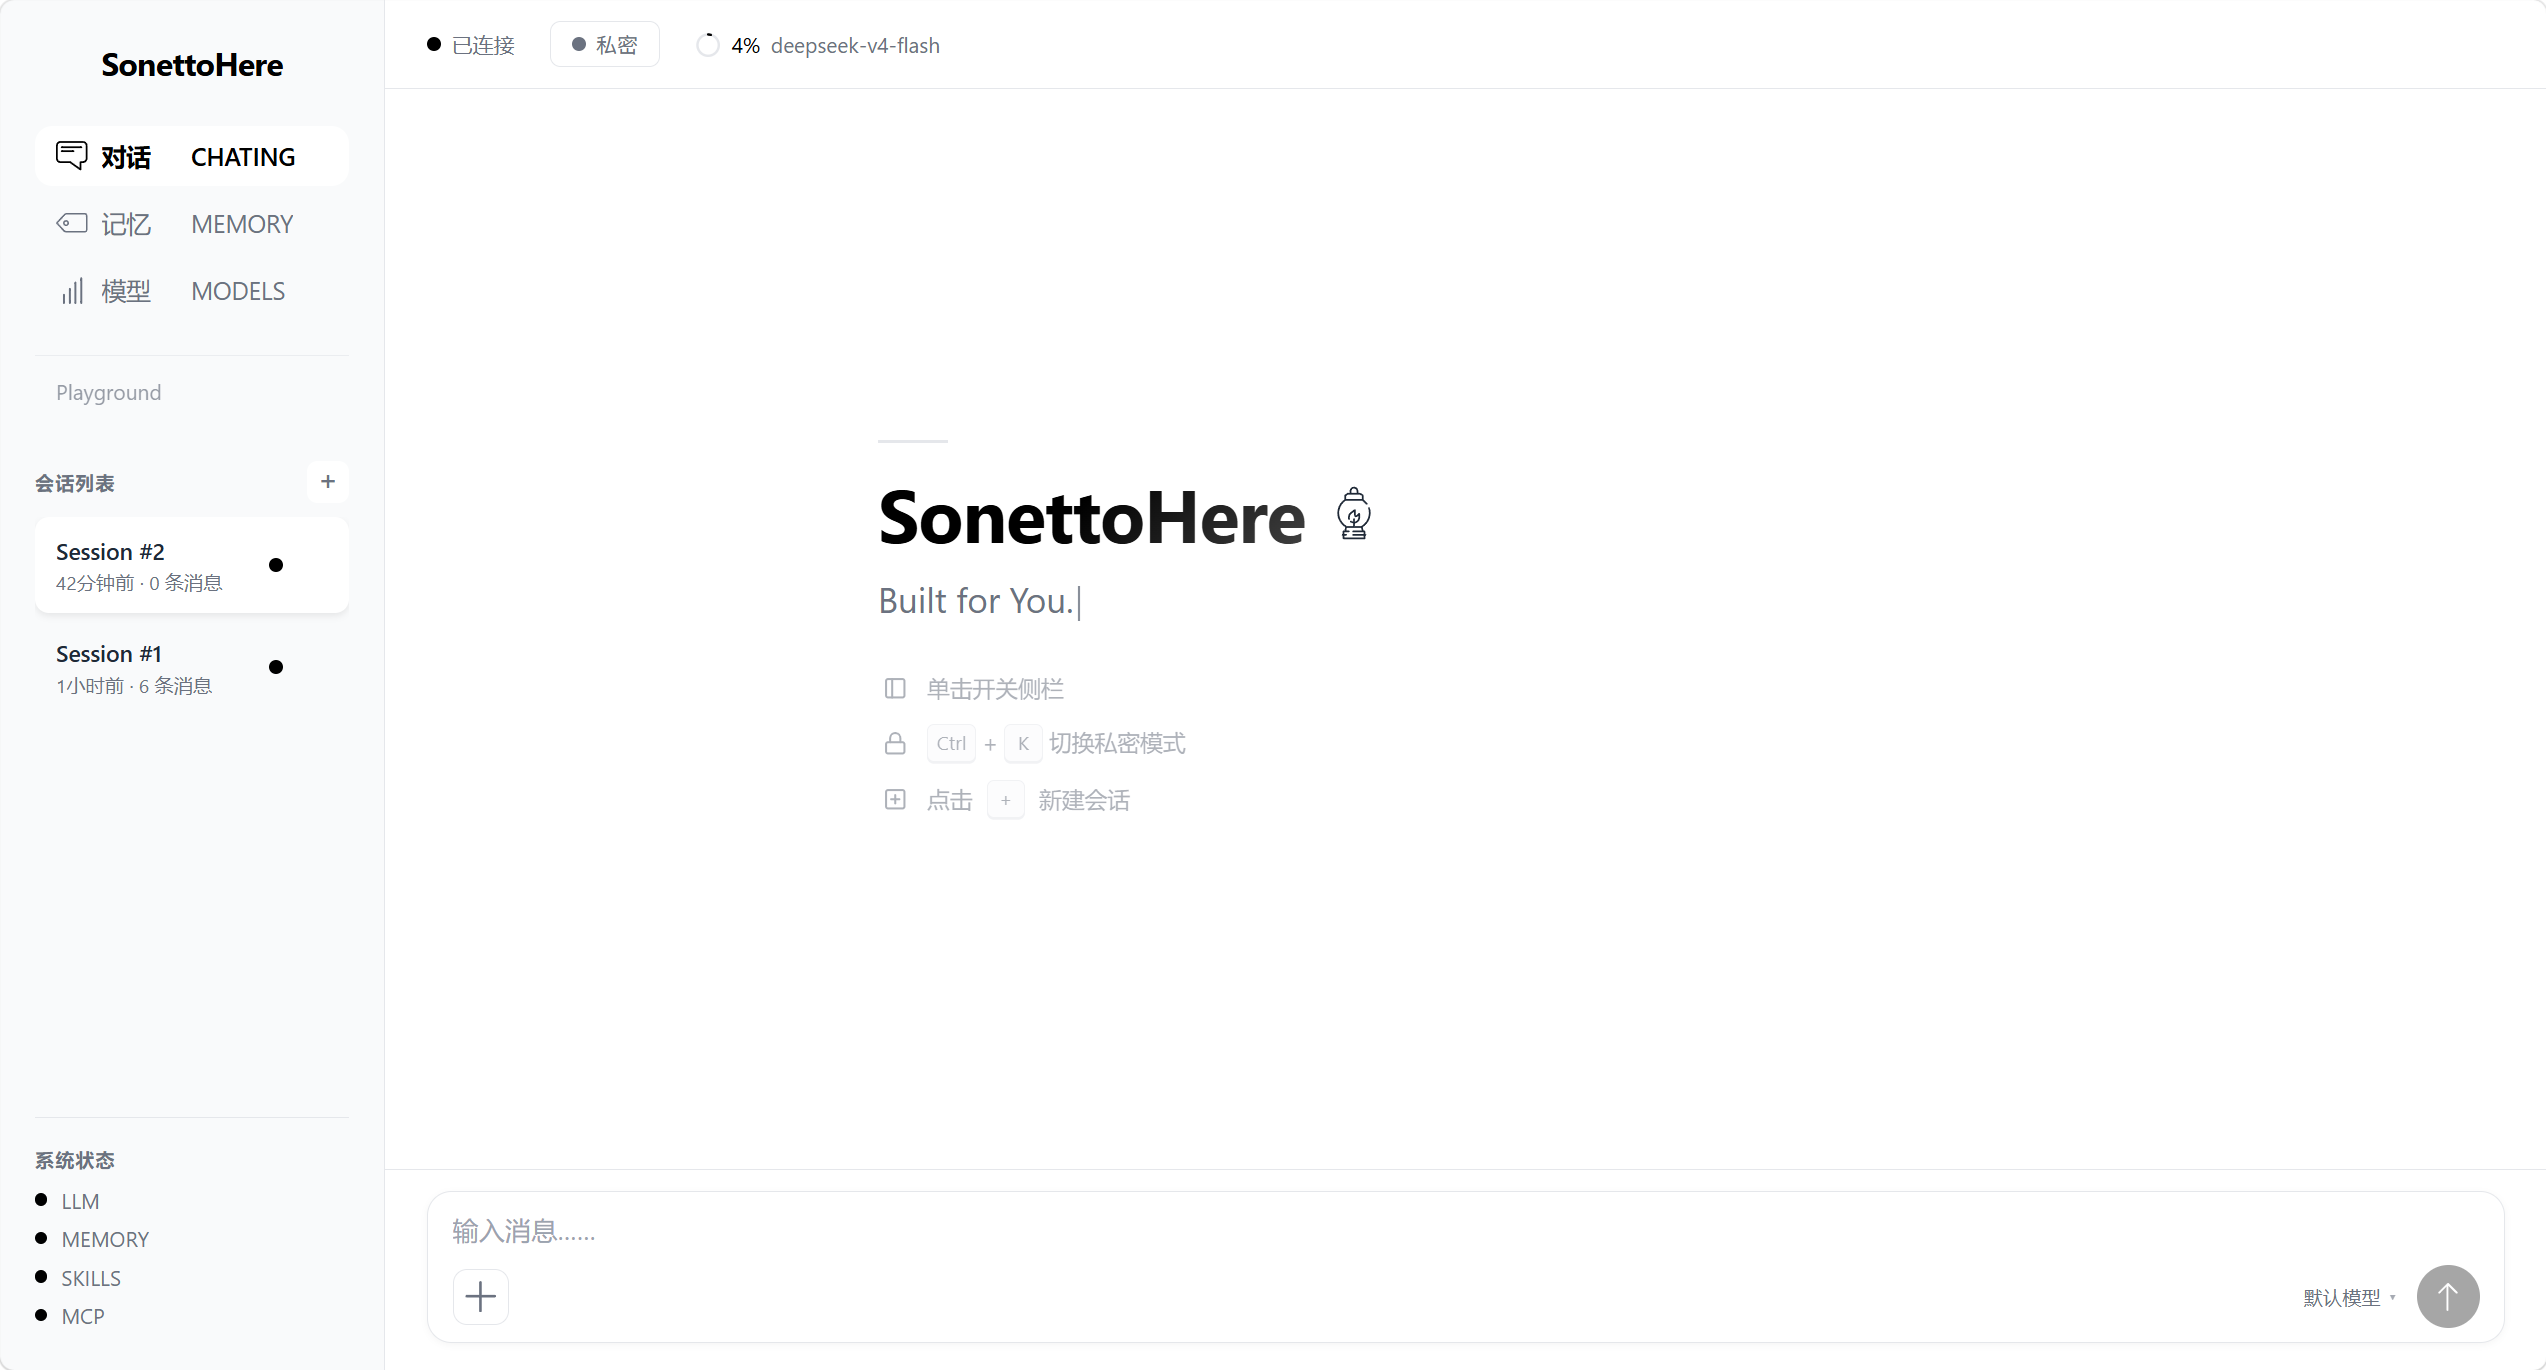
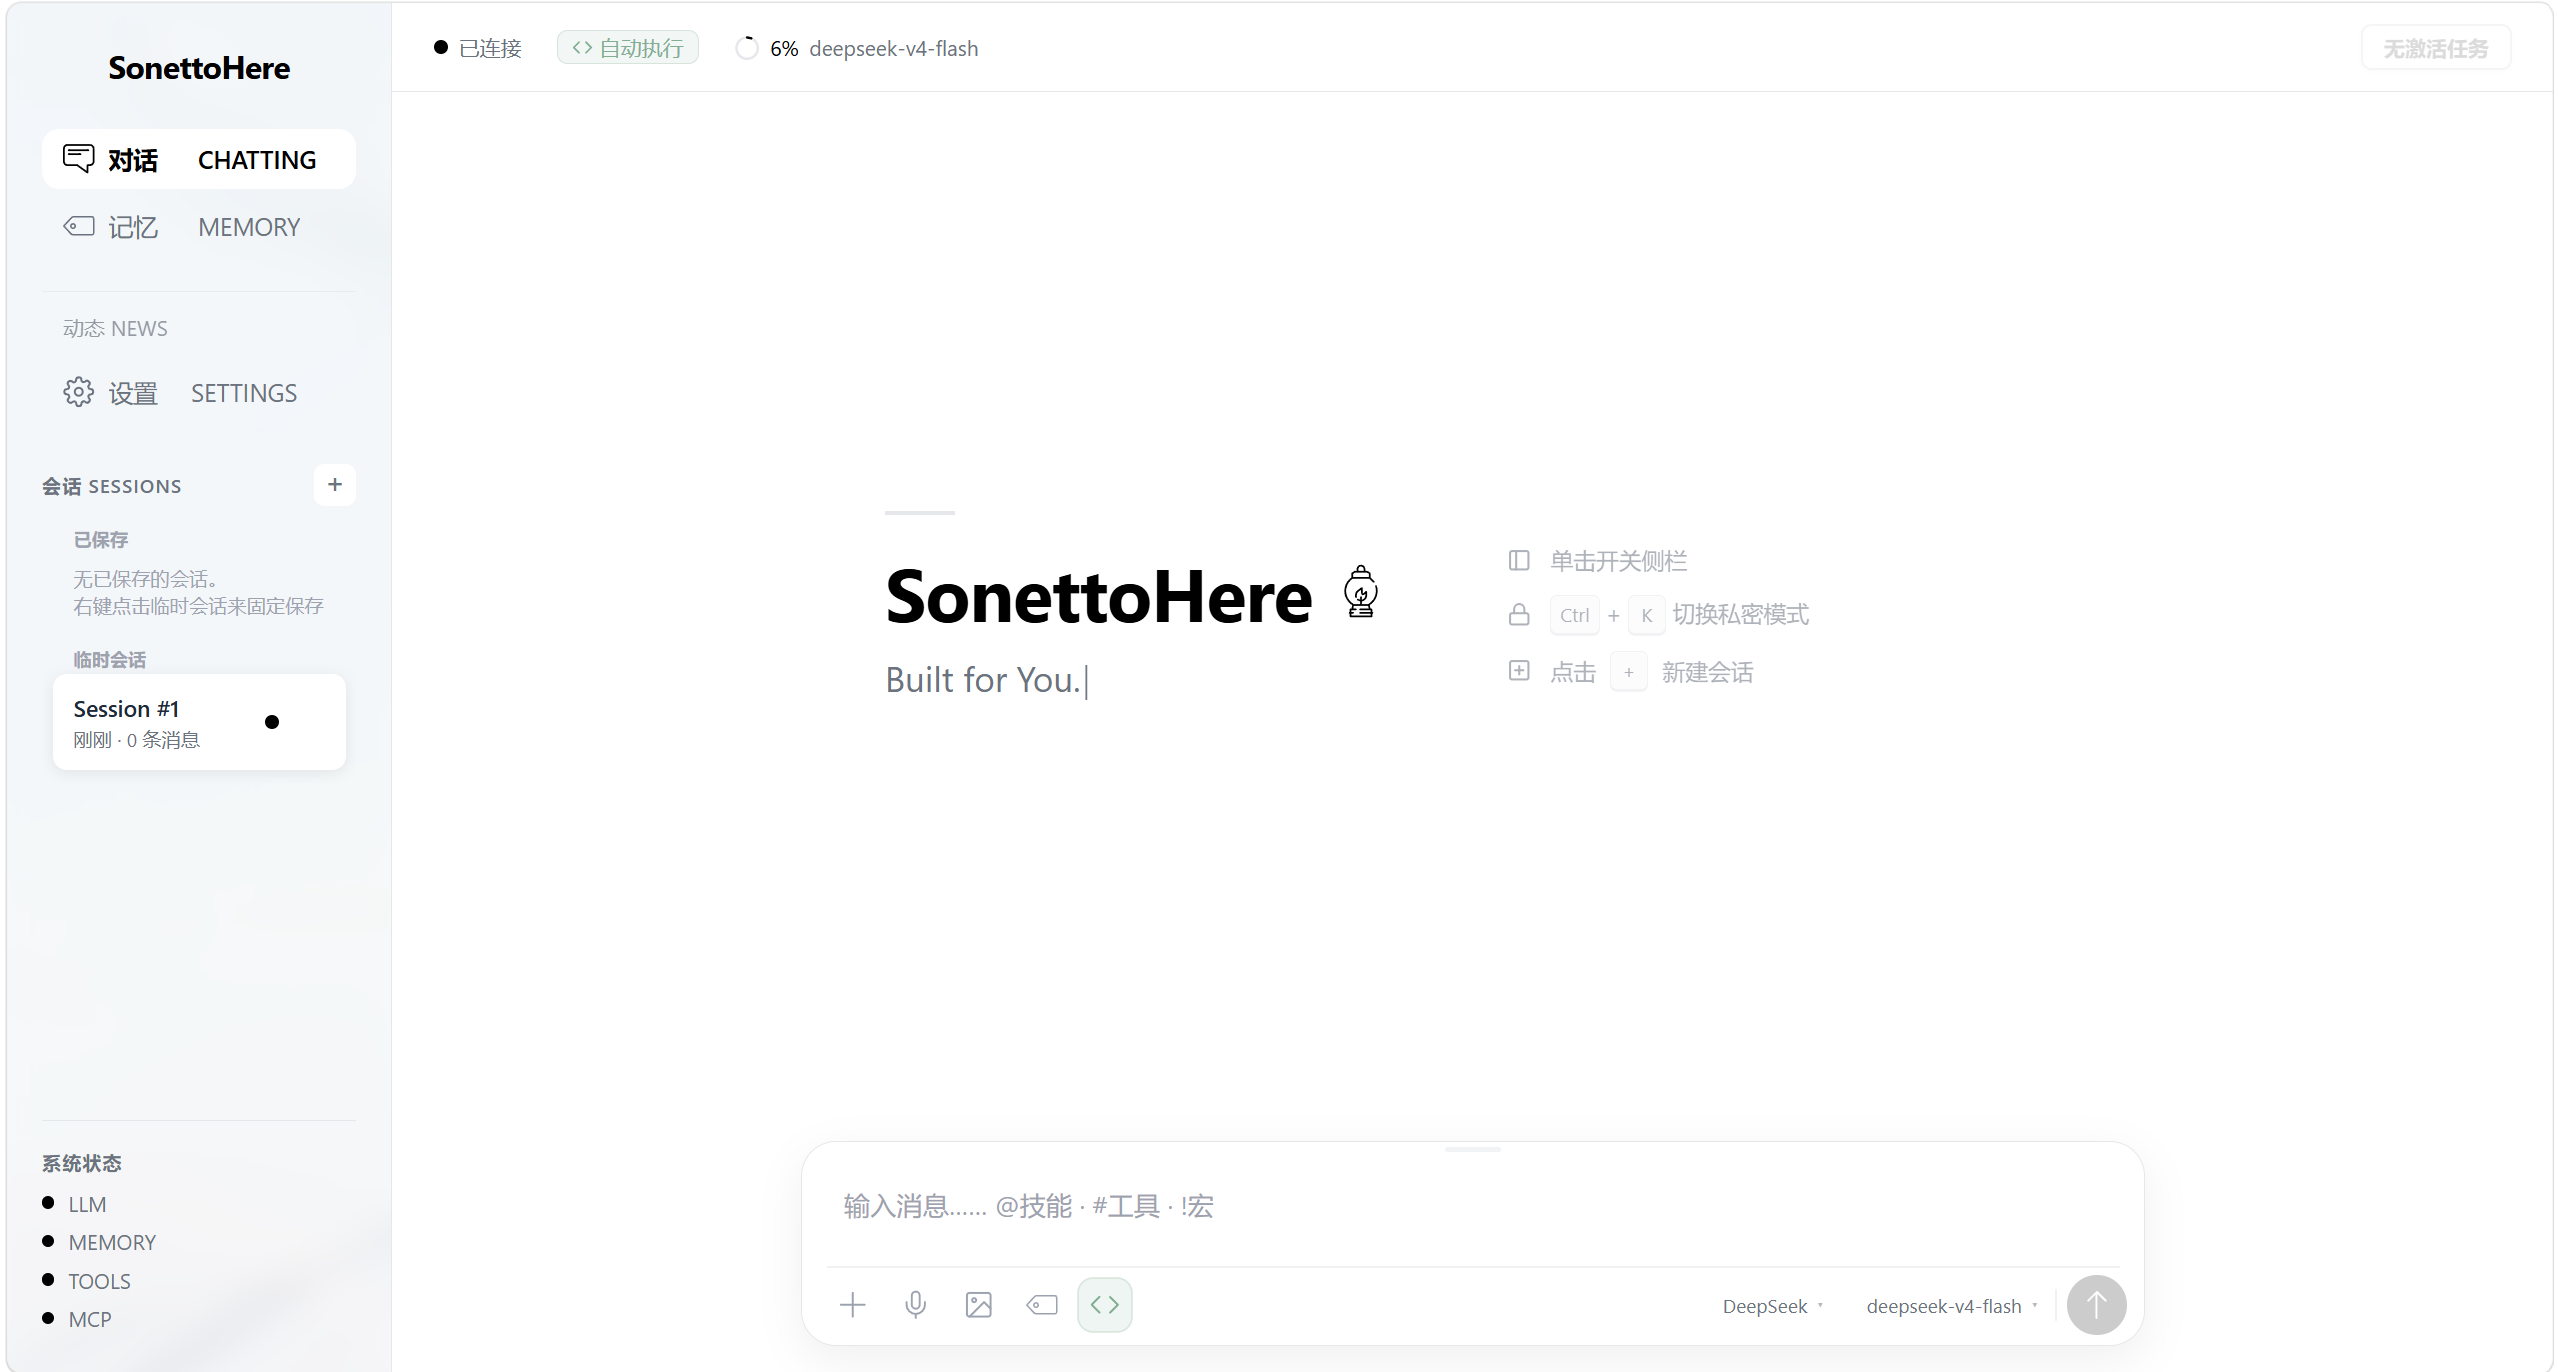
docs(readme): 更新封面图与工具列表，使与实际工具集一致

diff --git a/README.md b/README.md
@@ -1,6 +1,6 @@
-![首页](images/%E9%A6%96%E9%A1%B5.png)
-
 # SonettoHere
+
+![首页](images/%E9%A6%96%E9%A1%B5.png)
 
 基于 LangChain + LangGraph 的 ReAct AI Agent，支持 **多 LLM 提供商**、**SubAgent**、**Anthropic Skill 体系**。
 
@@ -55,6 +55,8 @@ API Key: sk-你的密钥
 ```
 
 > 也支持任何 OpenAI 兼容 API（OpenRouter、Qwen、智谱等），只需填入对应的 Base URL 和 Key。
+
+![提供商管理](images/%E6%8F%90%E4%BE%9B%E5%95%86%E7%AE%A1%E7%90%86.png)
 
 ### 4. 启动
 
@@ -122,21 +124,24 @@ AI 尝试读取该目录时会提示 "安全阻断" 并等待你确认
 
 ## Tools 工具
 
-内置 30+ 个 Built-in Tool，涵盖日常工具链：
+内置 37 个 Built-in Tool，涵盖日常工具链：
 
 | 领域 | Tools | 需要配置 |
-|------|--------|----------|
-| **Todo** | 添加/列出/完成/取消/删除/更新/查询任务、列出项目 | `TODOIST_API_TOKEN` |
-| **地图** | 周边搜索、地址编码、公交/骑行路线、模糊地址 | `AMAP_API_KEY` |
-| **网络** | 天气查询、Tavily 搜索、Tavily 网页提取、节假日日历 | `UAPIS_API_KEY` + `TAVILY_API_KEY` |
-| **文件** | 读写删改、目录操作、PDF/Word 阅读 | — |
-| **开发** | 语法检查、代码质量分析、单元测试、调试器 | — |
-| **系统** | 当前时间、Python 脚本执行 | — |
+|------|-------|----------|
+| **Todo** | 添加/列出/完成/取消完成/删除/更新/查询任务、列出项目/分区/标签 | `TODOIST_API_TOKEN` |
+| **地图** | 周边搜索、地址编码、公交路线、骑行路线、模糊地址 | `AMAP_API_KEY` |
+| **网络** | 天气查询、节假日日历、图片理解、Tavily 搜索、Tavily 网页提取 | `UAPIS_API_KEY` + `TAVILY_API_KEY` + `ZHIPUAI_API_KEY` |
+| **文件** | 读取/写入/编辑、删除/重命名/创建目录、目录列表/文件搜索 | — |
+| **任务追踪** | 无状态任务清单追踪 | — |
+| **系统** | Python 脚本执行 | — |
 | **SubAgent** | 创建独立会话执行复杂子任务 | — |
-| **交互** | 向用户提问 | — |
-| **娱乐** | 答案之书、塔罗牌 | `UAPIS_API_KEY` |
+| **交互** | 自由问答、单选、多选 | — |
+| **娱乐** | 塔罗牌占卜 | — |
+| **记忆** | 列出/读取/创建/更新/删除/合并长期记忆 | — |
 
 > 所有 Key 仅在用到对应 Tool 时必需，不影响基础对话。
+
+![工具调用](images/%E5%B7%A5%E5%85%B7%E8%B0%83%E7%94%A8.png)
 
 ## Skills 技能
 
